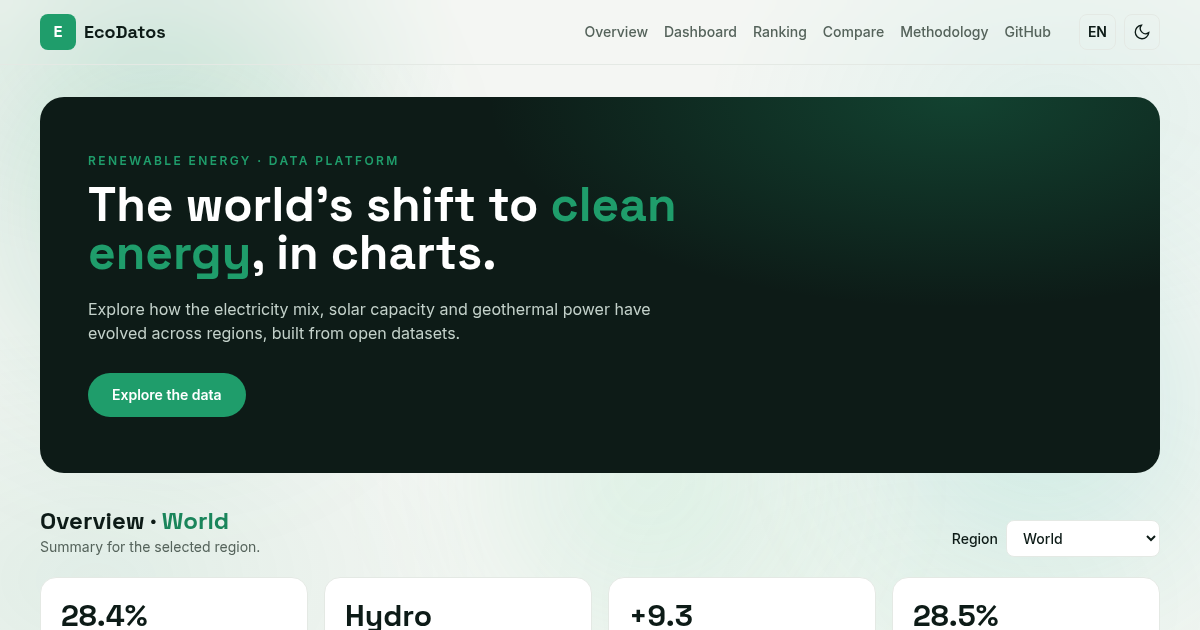
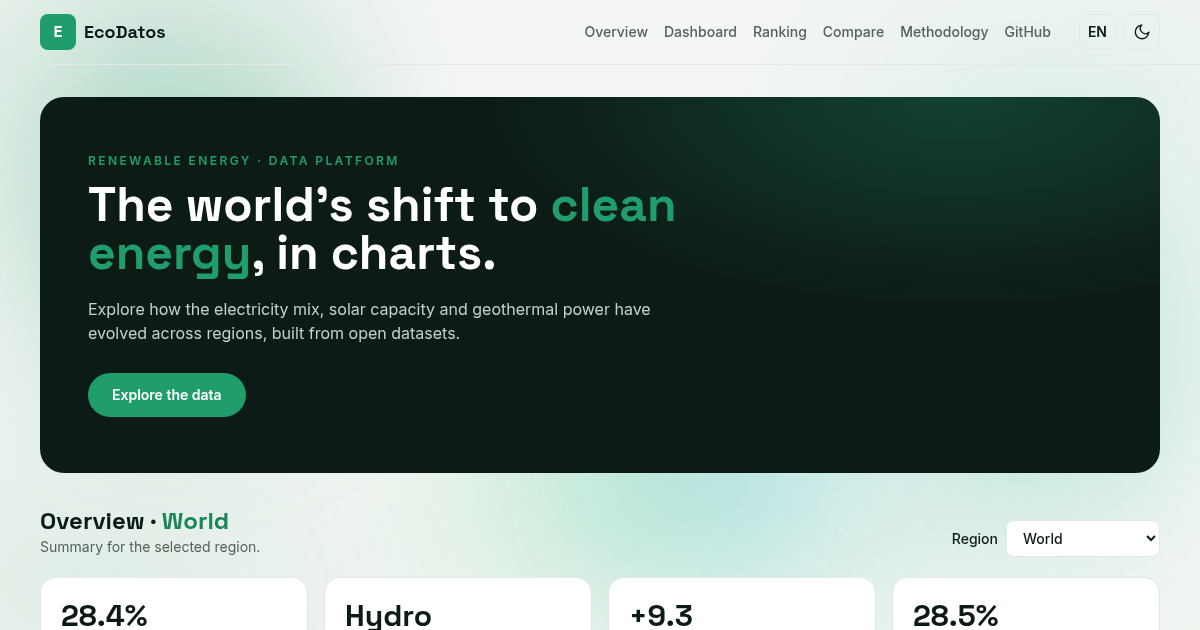
style: make the backdrop animation bolder and clearly in motion

Changed region(s): [[0.4317, 0.7238, 0.7092, 0.9048]]

diff --git a/index.html b/index.html
@@ -38,7 +38,7 @@
         --hero-bg: #0d1b17; --hero-text: #ffffff; --hero-sub: #c3d1ca;
         --blob: rgba(31, 157, 107, 0.30);
         --mesh-1: rgba(31, 157, 107, 0.09); --mesh-2: rgba(18, 178, 160, 0.08); --mesh-3: rgba(95, 212, 154, 0.07);
-        --field-a: rgba(31, 157, 107, 0.20); --field-b: rgba(18, 178, 160, 0.18); --field-c: rgba(95, 212, 154, 0.17);
+        --field-a: rgba(31, 157, 107, 0.40); --field-b: rgba(18, 178, 160, 0.36); --field-c: rgba(95, 212, 154, 0.32); --field-d: rgba(45, 190, 200, 0.30);
       }
       :root[data-theme='dark'] {
         --bg: #0b1512; --surface: #10211b; --surface-2: #142821; --text: #e7efe9; --muted: #93a79c;
@@ -46,7 +46,7 @@
         --hero-bg: #0a1712; --hero-text: #f1f7f3; --hero-sub: #a9bcb2;
         --blob: rgba(53, 196, 137, 0.20);
         --mesh-1: rgba(53, 196, 137, 0.13); --mesh-2: rgba(26, 143, 128, 0.12); --mesh-3: rgba(63, 174, 127, 0.10);
-        --field-a: rgba(53, 196, 137, 0.28); --field-b: rgba(26, 159, 142, 0.24); --field-c: rgba(63, 190, 140, 0.22);
+        --field-a: rgba(53, 196, 137, 0.52); --field-b: rgba(26, 173, 156, 0.46); --field-c: rgba(63, 200, 150, 0.42); --field-d: rgba(40, 200, 205, 0.40);
       }
       body { background: var(--bg); color: var(--text); transition: background 0.35s, color 0.35s; }
       .card { background: var(--surface); border: 1px solid var(--line); border-radius: 16px;
@@ -88,25 +88,32 @@
           radial-gradient(42% 52% at 88% 18%, var(--mesh-2), transparent 70%),
           radial-gradient(48% 58% at 78% 96%, var(--mesh-3), transparent 72%),
           radial-gradient(46% 56% at 8% 92%, var(--mesh-1), transparent 72%); }
-      .bg-anim span { position: absolute; border-radius: 50%; filter: blur(60px); will-change: transform, opacity; }
-      .field-a { width: 48vw; height: 48vw; max-width: 680px; max-height: 680px; left: -10vw; top: -12vh;
-        background: radial-gradient(circle at 50% 50%, var(--field-a), transparent 68%); animation: floatA 22s ease-in-out infinite; }
-      .field-b { width: 42vw; height: 42vw; max-width: 600px; max-height: 600px; right: -8vw; top: 24vh;
-        background: radial-gradient(circle at 50% 50%, var(--field-b), transparent 68%); animation: floatB 26s ease-in-out infinite; }
-      .field-c { width: 40vw; height: 40vw; max-width: 560px; max-height: 560px; left: 34vw; bottom: -14vh;
-        background: radial-gradient(circle at 50% 50%, var(--field-c), transparent 68%); animation: floatC 19s ease-in-out infinite; }
+      .bg-anim span { position: absolute; border-radius: 50%; filter: blur(52px); will-change: transform, opacity; }
+      .field-a { width: 46vw; height: 46vw; max-width: 640px; max-height: 640px; left: -8vw; top: -10vh;
+        background: radial-gradient(circle at 50% 50%, var(--field-a), transparent 66%); animation: floatA 15s ease-in-out infinite; }
+      .field-b { width: 40vw; height: 40vw; max-width: 580px; max-height: 580px; right: -6vw; top: 18vh;
+        background: radial-gradient(circle at 50% 50%, var(--field-b), transparent 66%); animation: floatB 18s ease-in-out infinite; }
+      .field-c { width: 38vw; height: 38vw; max-width: 540px; max-height: 540px; left: 30vw; bottom: -12vh;
+        background: radial-gradient(circle at 50% 50%, var(--field-c), transparent 66%); animation: floatC 13s ease-in-out infinite; }
+      .field-d { width: 36vw; height: 36vw; max-width: 500px; max-height: 500px; right: 20vw; top: 40vh;
+        background: radial-gradient(circle at 50% 50%, var(--field-d), transparent 66%); animation: floatD 21s ease-in-out infinite; }
       @keyframes floatA {
-        0%, 100% { transform: translate3d(0, 0, 0) scale(1); opacity: 0.85; }
-        33% { transform: translate3d(140px, 90px, 0) scale(1.09); opacity: 1; }
-        66% { transform: translate3d(70px, 150px, 0) scale(1.04); opacity: 0.9; }
+        0%, 100% { transform: translate3d(0, 0, 0) scale(1); opacity: 0.75; }
+        33% { transform: translate3d(260px, 150px, 0) scale(1.16); opacity: 1; }
+        66% { transform: translate3d(120px, 280px, 0) scale(1.06); opacity: 0.85; }
       }
       @keyframes floatB {
-        0%, 100% { transform: translate3d(0, 0, 0) scale(1); opacity: 0.85; }
-        50% { transform: translate3d(-150px, 110px, 0) scale(1.1); opacity: 1; }
+        0%, 100% { transform: translate3d(0, 0, 0) scale(1); opacity: 0.8; }
+        50% { transform: translate3d(-280px, 200px, 0) scale(1.18); opacity: 1; }
       }
       @keyframes floatC {
-        0%, 100% { transform: translate3d(0, 0, 0) scale(1); opacity: 0.9; }
-        50% { transform: translate3d(120px, -120px, 0) scale(1.08); opacity: 1; }
+        0%, 100% { transform: translate3d(0, 0, 0) scale(1); opacity: 0.85; }
+        50% { transform: translate3d(240px, -220px, 0) scale(1.14); opacity: 1; }
+      }
+      @keyframes floatD {
+        0%, 100% { transform: translate3d(0, 0, 0) scale(1.05); opacity: 0.7; }
+        40% { transform: translate3d(-200px, -140px, 0) scale(1); opacity: 0.95; }
+        75% { transform: translate3d(-120px, 180px, 0) scale(1.2); opacity: 0.85; }
       }
       .bg-paused .bg-anim span { animation-play-state: paused; }
 
@@ -132,7 +139,7 @@
     </style>
   </head>
   <body class="font-sans">
-    <div class="bg-anim" aria-hidden="true"><span class="field-a"></span><span class="field-b"></span><span class="field-c"></span></div>
+    <div class="bg-anim" aria-hidden="true"><span class="field-a"></span><span class="field-b"></span><span class="field-c"></span><span class="field-d"></span></div>
 
     <a href="#dashboard" class="sr-only focus:not-sr-only focus:absolute focus:top-3 focus:left-3 focus:z-50 focus:bg-[var(--text)] focus:text-[var(--bg)] focus:px-4 focus:py-2 focus:rounded-lg">Skip to dashboard</a>
 
